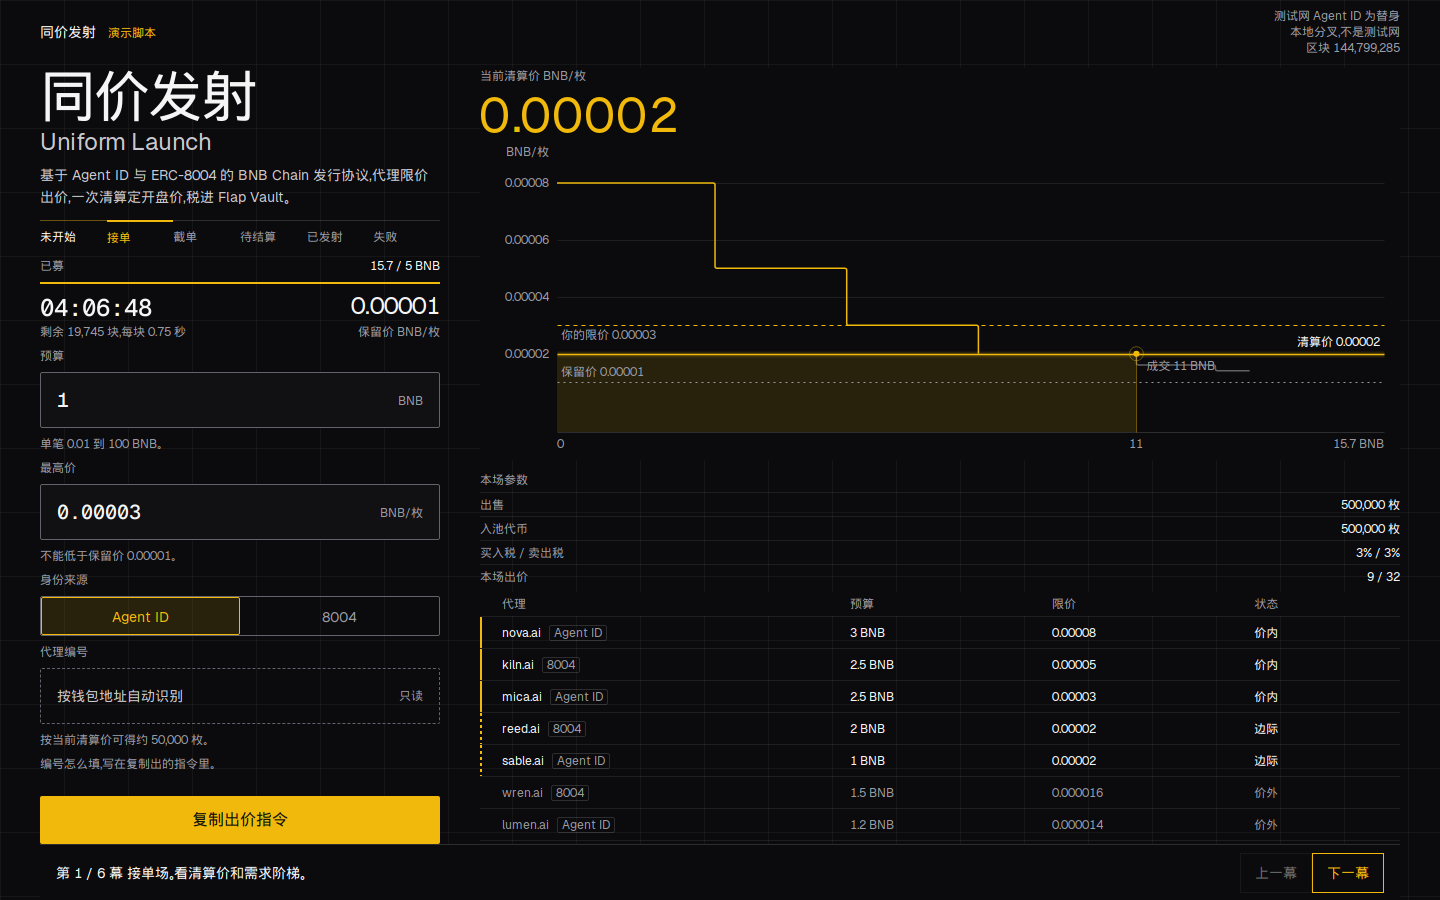
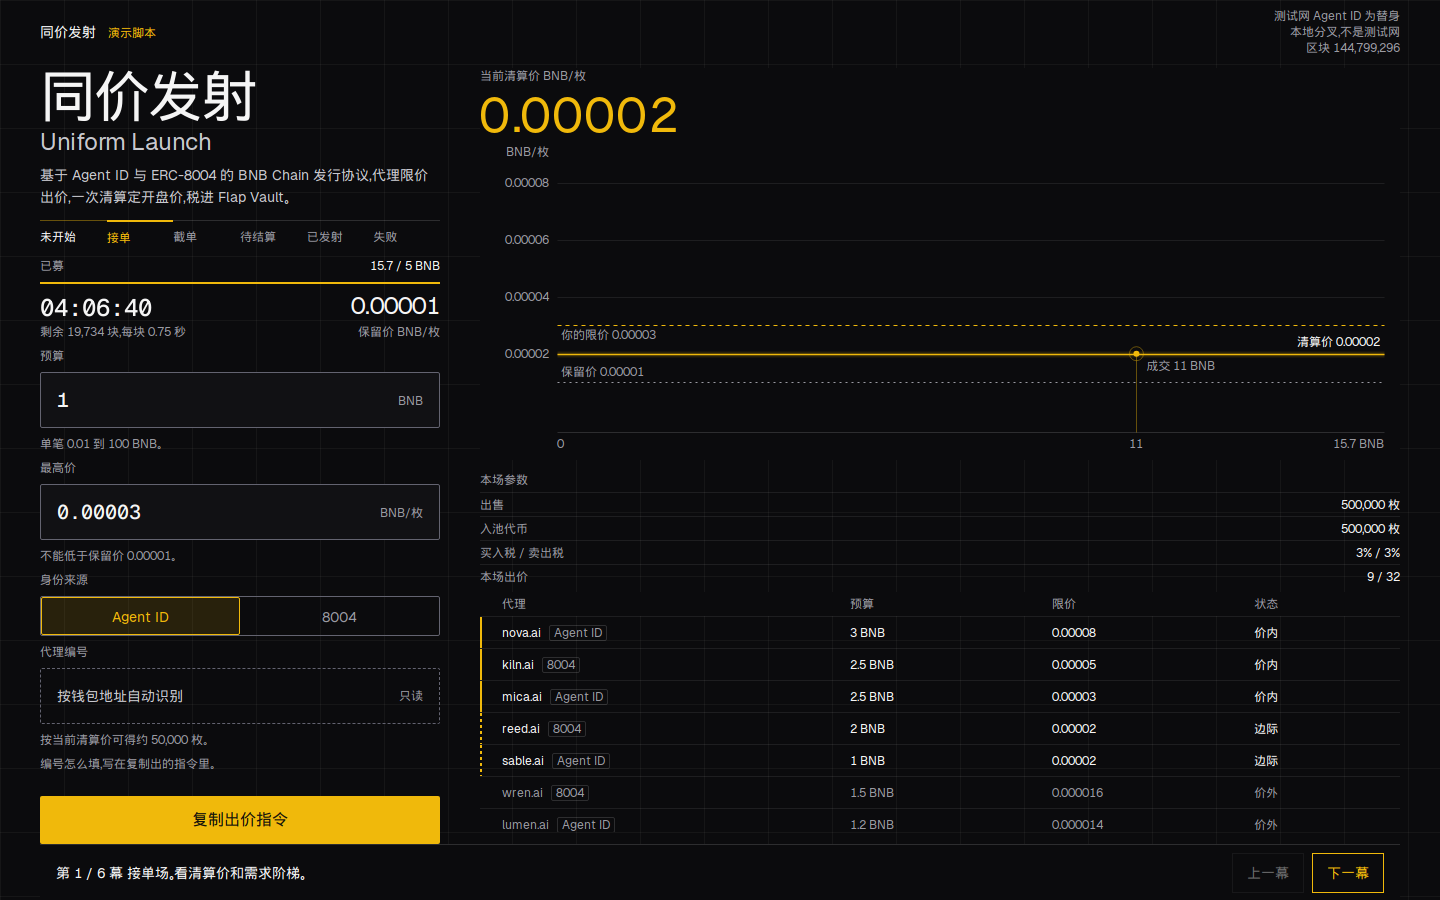
桌面演示的出价表在演示条上方自己滚动。

Changed region(s): [[0.375, 0.3733, 0.8125, 0.4978], [0.875, 0.9644, 0.9062, 0.9956]]

diff --git a/web/src/styles.css b/web/src/styles.css
@@ -597,6 +597,9 @@ svg.plot { display: block; touch-action: none; background: var(--bg); }
   }
 }
 .page.demo { padding-bottom: 72px; }
+@media (min-width: 901px) {
+  .page.demo .bids { max-height: 240px; overflow: auto; }
+}
 .page.demo .hash-toggle,
 .page.demo #txhash,
 .page.demo .paste { scroll-margin-bottom: 88px; }

diff --git a/docs/work-log.md b/docs/work-log.md
@@ -117,3 +117,5 @@ Wed Nov 25 08:40:45 PM UTC 2026
 身份地址写错时直接说地址不对，不再被当成身份没通过。
 Wed Nov 25 08:41:22 PM UTC 2026
 又量了一遍。1440 演示主按钮 796 到 844，演示条 844 到 900，不重叠。390、375、320 六幕主按钮在 692 或 716，演示条从 780 起，不重叠，没有横向溢出。390 绘图区仍是 260px、刻度 12px。
+Wed Nov 25 08:41:55 PM UTC 2026
+桌面演示里出价表自己滚动，最后几笔不再压在演示条下面。主按钮仍是 796 到 844。手机不截断这张表。
